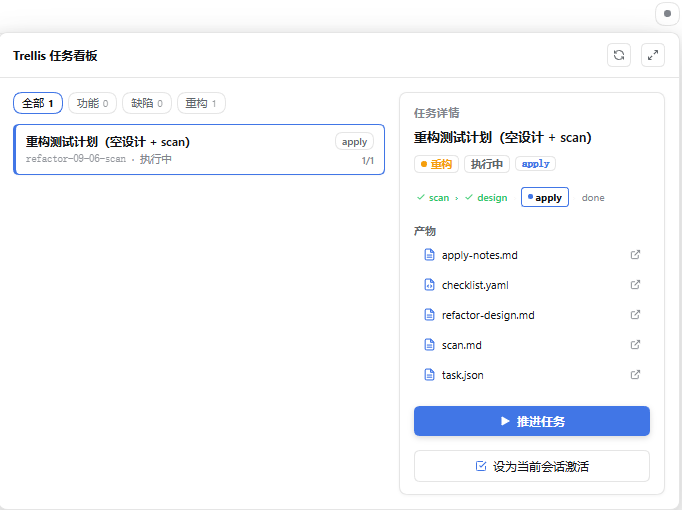
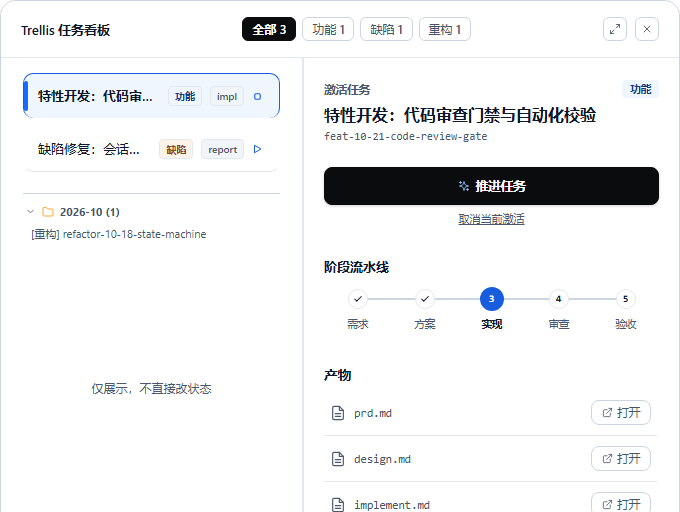
docs: update kanban screenshots with clean mock data and adjust placement

diff --git a/README_EN.md b/README_EN.md
@@ -13,16 +13,6 @@
   🌏 <a href="./README.md">中文</a> · <a href="./README_EN.md"><b>English</b></a>
 </div>
 
-<br />
-
-<p align="center">
-  <img src="./docs/images/web-kanban-list.png" width="49%" alt="Compact task list with details inspector" />
-  <img src="./docs/images/web-kanban-lanes.png" width="49%" alt="Kanban lanes with collapsed empty lanes" />
-</p>
-<p align="center">
-  <img src="./docs/images/web-kanban-refactor.png" width="49%" alt="Refactor lane view with task details" />
-</p>
-
 ---
 
 ## Overview
@@ -46,6 +36,15 @@ In complex, multi-turn AI coding workflows, typical pain points include:
 - **Optional Read-Only Planning**: When enabled via settings, code-writing tools (`write` / `edit`) are filtered out during planning phases, leaving only a sandboxed artifact channel for design documentation.
 - **Session-Level Isolation**: Session pointers are stored independently under `.trellis/.runtime/sessions/`, preventing multi-session or subagent race conditions.
 - **Dual-Mode Task Board**: A dense compact task list by default (type badge + title + stage + step summary), expanding into a full-screen kanban with workflow-stage lanes, auto-collapsed empty lanes, live search, type filters, and an archive lane. The UI is fully iconized (self-contained inline SVG icon set), and the details inspector provides a Step Tracker pipeline, an artifact file tree, and capsule-style property tags. The board stays deliberately restrained — it never mutates task state directly; the only advance path is the **Advance Task** button injecting an instruction into the composer for the Agent to execute, and artifact clicks produce native `@.trellis/tasks/...` file references handled by DSH.
+
+<p align="center">
+  <img src="./docs/images/web-kanban-list.png" width="49%" alt="Compact task list with details inspector" />
+  <img src="./docs/images/web-kanban-lanes.png" width="49%" alt="Kanban lanes with collapsed empty lanes" />
+</p>
+<p align="center">
+  <img src="./docs/images/web-kanban-refactor.png" width="49%" alt="Refactor lane view with task details" />
+</p>
+
 - **Git Cleanliness Check (scoped mode supported)**: Automatically verifies that the Git working tree is clean and committed before closing or archiving a task. When the working tree contains uncommitted changes unrelated to the current task, pass the task's actual changed files via `modified_files` to `trellis_task_update` / `trellis_task_archive`: the check then scopes to those files (which must themselves be committed), and uncommitted changes outside the list only emit a warning instead of blocking. Omitting the parameter keeps the global strict check.
 
 ---

diff --git a/README.md b/README.md
@@ -13,16 +13,6 @@
   🌏 <a href="./README.md"><b>中文</b></a> · <a href="./README_EN.md">English</a>
 </div>
 
-<br />
-
-<p align="center">
-  <img src="./docs/images/web-kanban-list.png" width="49%" alt="紧凑任务列表与详情面板" />
-  <img src="./docs/images/web-kanban-lanes.png" width="49%" alt="泳道看板与空泳道折叠" />
-</p>
-<p align="center">
-  <img src="./docs/images/web-kanban-refactor.png" width="49%" alt="重构泳道与任务详情" />
-</p>
-
 ---
 
 ## 项目简介
@@ -46,6 +36,15 @@
 - **可选规划期只读保护**：开启配置项后，可在方案获批前于运行时过滤掉代码写工具（`write` / `edit`），仅开放文档受控修改通道，确保方案敲定后再动代码。
 - **会话级状态隔离**：各会话的任务绑定关系独立存储在 `.trellis/.runtime/sessions/` 中，多会话与并发子代理并行工作时互不串扰。
 - **双模态任务看板**：常态为高密度紧凑任务列表（类型徽章 + 标题 + 阶段 + 步骤简标），可一键展开为全屏泳道看板（按工作流阶段细分泳道、空泳道自动折叠、实时搜索与类型筛选、归档泳道）；操作全面图标化（自包含内联 SVG 图标体系），右侧详情面板内置 **Step Tracker 步骤流水线**、产物文件树与胶囊属性标签。看板保持**克制交互**——不直接改任务状态，只提供「▶ 推进任务」将指令注入输入框由 Agent 执行，产物点击生成 `@.trellis/tasks/...` 原生文件引用交给 DSH 原生查看。
+
+<p align="center">
+  <img src="./docs/images/web-kanban-list.png" width="49%" alt="紧凑任务列表与详情面板" />
+  <img src="./docs/images/web-kanban-lanes.png" width="49%" alt="泳道看板与空泳道折叠" />
+</p>
+<p align="center">
+  <img src="./docs/images/web-kanban-refactor.png" width="49%" alt="重构泳道与任务详情" />
+</p>
+
 - **Git 干净度校验（支持局部校验）**：任务完成和归档时自动检查 Git 工作区状态，防止遗留未提交的脏代码。若工作区存在与任务无关的未提交改动，可在 `trellis_task_update` / `trellis_task_archive` 中通过 `modified_files` 声明任务实际改动文件，校验将限缩到清单内文件（须已提交），清单外未提交改动仅告警、不再阻塞；未传该参数时保持全局严格校验。
 
 ---
